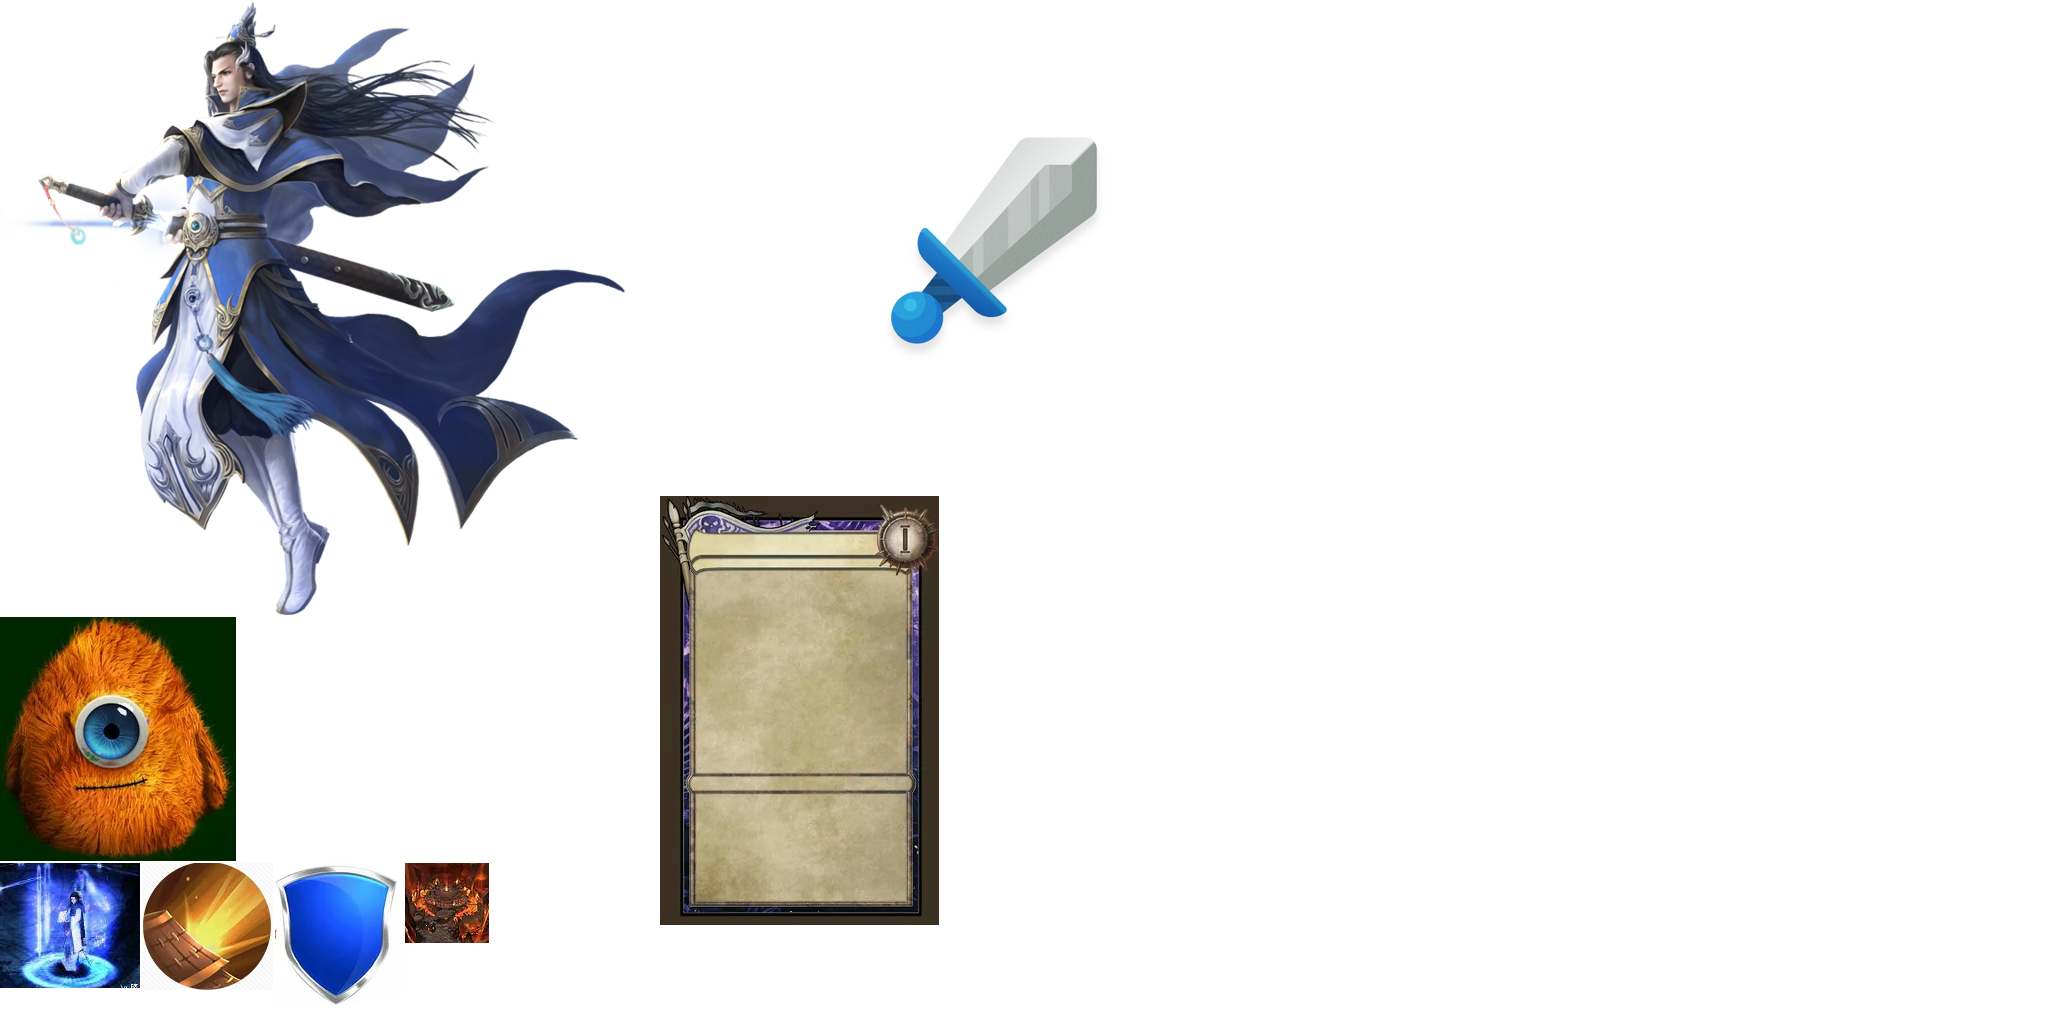
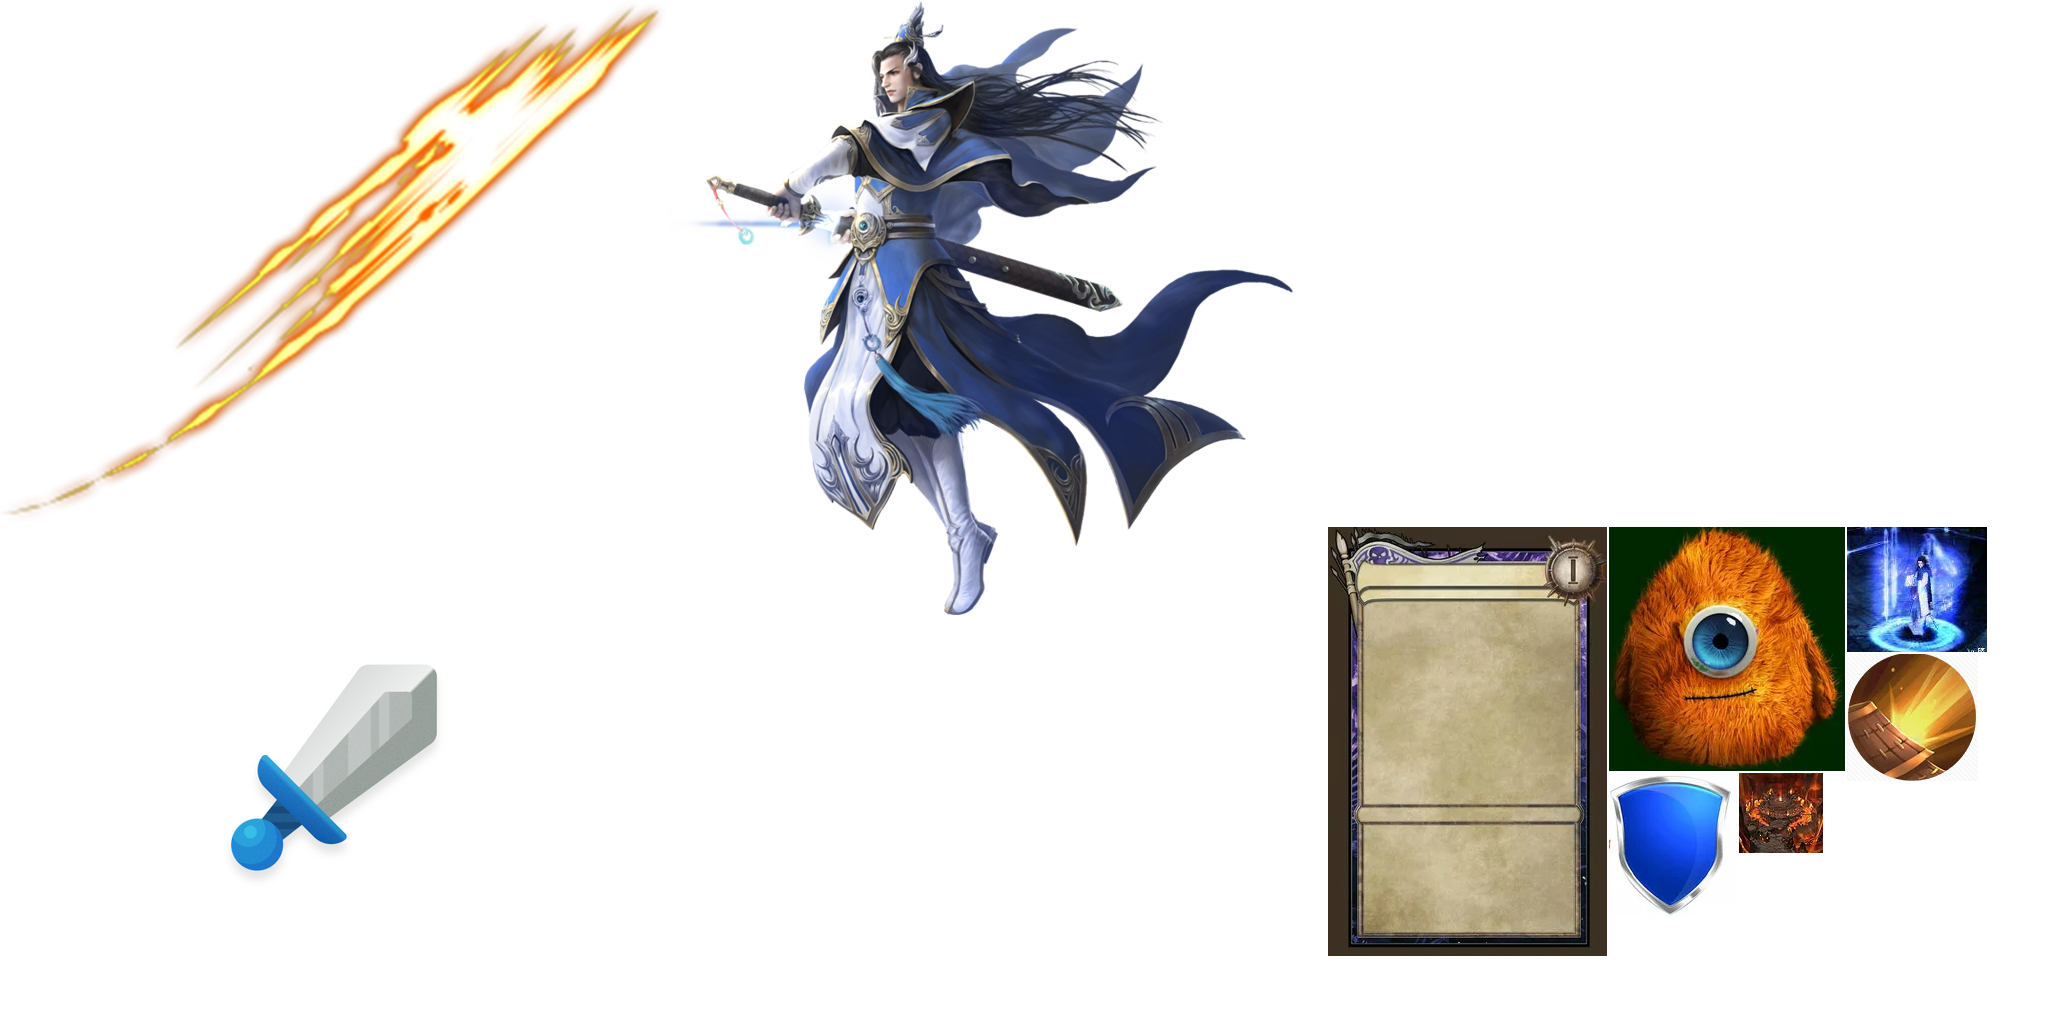
临时命中特效

diff --git a/Assets/Scripts/Battle/View/Fighter.cs b/Assets/Scripts/Battle/View/Fighter.cs
@@ -3,6 +3,7 @@ using System.Collections;
 using System.Collections.Generic;
 using FairyGUI;
 using UnityEngine;
+using DG.Tweening;
 
 namespace UI.Battle
 {
@@ -49,6 +50,18 @@ namespace UI.Battle
         public void UpdateHp(int newHp)
         {
             pgsHp.TweenValue(newHp, 0.5f);
+
+            tOnHit.Play();
+
+            FxSword fxSword = FxSword.CreateInstance();
+            fxSword.x = (this.width - fxSword.width) / 2;
+            fxSword.y = (this.height - fxSword.height) / 2;
+            AddChild(fxSword);
+            fxSword.img.fillAmount = 0;
+            DOTween.To(() => fxSword.img.fillAmount, x => fxSword.img.fillAmount = x, 1, 0.2f)
+            .SetUpdate(true)
+            .SetTarget(fxSword.img)
+            .OnComplete(()=> { fxSword.Dispose(); });
         }
 
         internal void UpdateAction(BoutAction boutAction)

diff --git a/Assets/Scripts/UI/Battle/FxSword.cs b/Assets/Scripts/UI/Battle/FxSword.cs
@@ -1,0 +1,30 @@
+/** This is an automatically generated class by FairyGUI. Please do not modify it. **/
+
+using FairyGUI;
+using FairyGUI.Utils;
+
+namespace UI.Battle
+{
+	public partial class FxSword : GComponent
+	{
+		public GImage img;
+
+		public const string URL = "ui://n5b6g3gaest9j";
+
+		public static FxSword CreateInstance()
+		{
+			return (FxSword)UIPackage.CreateObject("Battle","FxSword");
+		}
+
+		public FxSword()
+		{
+		}
+
+		public override void ConstructFromXML(XML xml)
+		{
+			base.ConstructFromXML(xml);
+
+			img = (GImage)this.GetChild("img");
+		}
+	}
+}

diff --git a/Assets/Scripts/UI/Battle/Fighter.cs b/Assets/Scripts/UI/Battle/Fighter.cs
@@ -12,6 +12,7 @@ namespace UI.Battle
 		public HpBar pgsHp;
 		public GTextField txtAttack;
 		public GList lstBuff;
+		public Transition tOnHit;
 
 		public const string URL = "ui://n5b6g3gas0y69";
 
@@ -33,6 +34,7 @@ namespace UI.Battle
 			pgsHp = (HpBar)this.GetChild("pgsHp");
 			txtAttack = (GTextField)this.GetChild("txtAttack");
 			lstBuff = (GList)this.GetChild("lstBuff");
+			tOnHit = this.GetTransition("tOnHit");
 		}
 	}
 }

diff --git a/Assets/Scripts/UI/Battle/BattleBinder.cs b/Assets/Scripts/UI/Battle/BattleBinder.cs
@@ -8,6 +8,7 @@ namespace UI.Battle
 	{
 		public static void BindAll()
 		{
+			UIObjectFactory.SetPackageItemExtension(FxSword.URL, typeof(FxSword));
 			UIObjectFactory.SetPackageItemExtension(HpBar.URL, typeof(HpBar));
 			UIObjectFactory.SetPackageItemExtension(Fighter.URL, typeof(Fighter));
 			UIObjectFactory.SetPackageItemExtension(BattleFrame.URL, typeof(BattleFrame));
